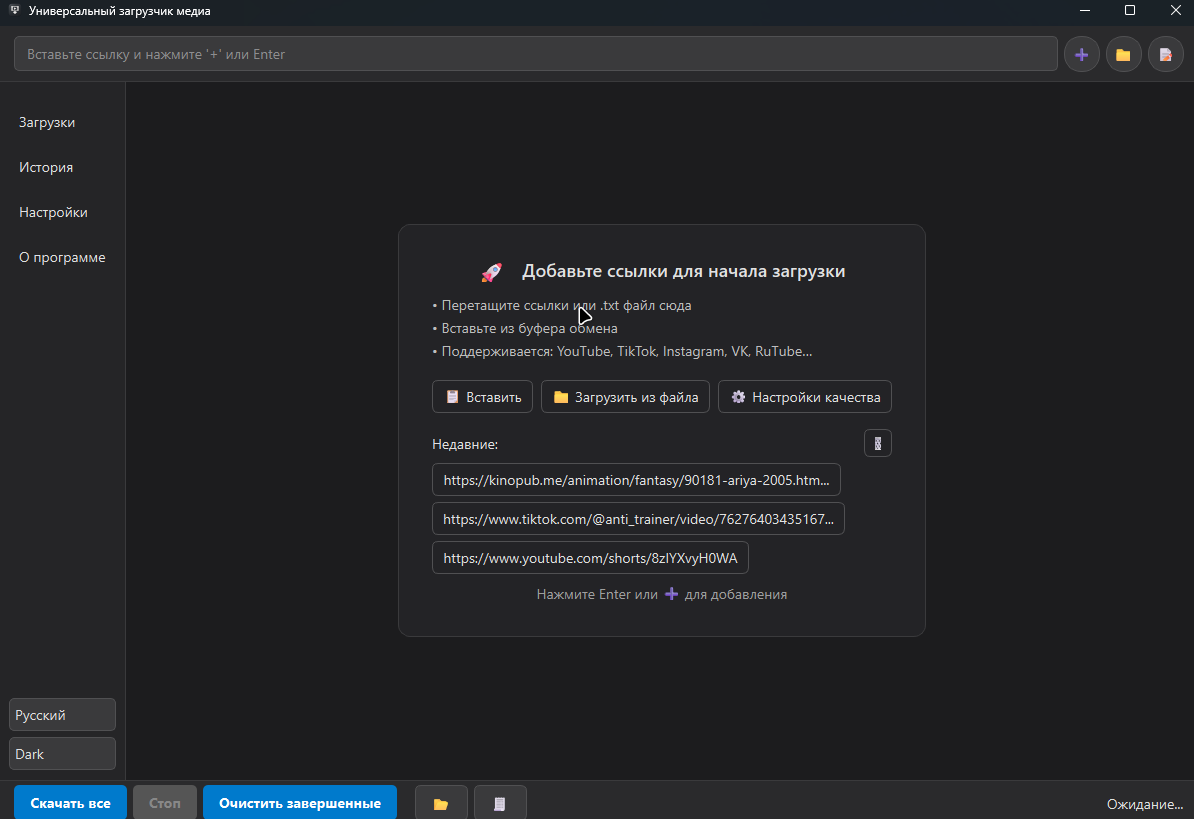
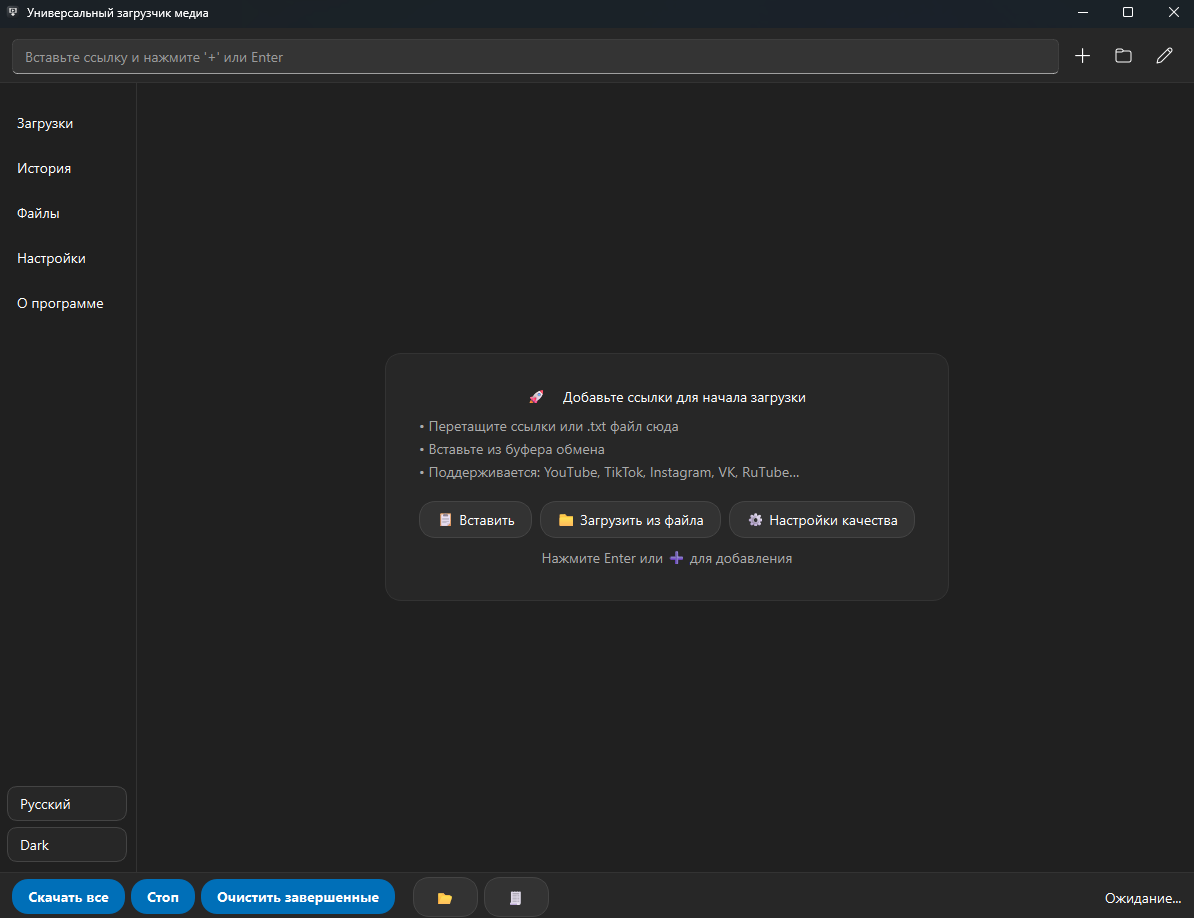
feat: Release v2.1 -Playlists

diff --git a/app/playlist_dialog.py b/app/playlist_dialog.py
@@ -1,0 +1,116 @@
+from PyQt6.QtWidgets import (QDialog, QVBoxLayout, QHBoxLayout,
+                             QListWidget, QListWidgetItem)
+from PyQt6.QtCore import Qt
+from qfluentwidgets import (SearchLineEdit, PushButton, PrimaryPushButton,
+                            SubtitleLabel, BodyLabel)
+
+
+class PlaylistDialog(QDialog):
+    def __init__(self, entries, parent=None):
+        super().__init__(parent)
+        self.setWindowTitle("Обнаружен плейлист / сезон")
+        self.resize(600, 550)  # Сделали окно чуть больше
+        self.entries = [e for e in entries if e]
+        self.selected_urls = []
+        self.initUI()
+
+    def initUI(self):
+        layout = QVBoxLayout(self)
+        layout.setContentsMargins(24, 24, 24, 24)
+        layout.setSpacing(15)
+
+        self.title_label = SubtitleLabel(f"Найдено видео: {len(self.entries)}")
+        layout.addWidget(self.title_label)
+
+        self.desc_label = BodyLabel("Выберите нужные для скачивания или воспользуйтесь поиском:")
+        self.desc_label.setStyleSheet("color: gray;")
+        layout.addWidget(self.desc_label)
+
+        self.search_input = SearchLineEdit()
+        self.search_input.setPlaceholderText("Поиск по названию видео...")
+        self.search_input.textChanged.connect(self.filter_list)
+        layout.addWidget(self.search_input)
+
+        self.list_widget = QListWidget()
+        self.list_widget.setStyleSheet("""
+            QListWidget {
+                background-color: rgba(255, 255, 255, 0.03);
+                border: 1px solid rgba(255, 255, 255, 0.1);
+                border-radius: 8px;
+                padding: 5px;
+                outline: none;
+            }
+            QListWidget::item {
+                padding: 10px;
+                border-radius: 6px;
+                border-bottom: 1px solid rgba(255, 255, 255, 0.05);
+            }
+            QListWidget::item:hover {
+                background-color: rgba(255, 255, 255, 0.08);
+            }
+        """)
+
+        for entry in self.entries:
+            title = entry.get('title', 'Без названия')
+            url = entry.get('url') or entry.get('webpage_url')
+
+            if not url and entry.get('id'):
+                url = f"https://www.youtube.com/watch?v={entry.get('id')}"
+
+            if url:
+                item = QListWidgetItem(title)
+                item.setFlags(item.flags() | Qt.ItemFlag.ItemIsUserCheckable)
+                item.setCheckState(Qt.CheckState.Checked)
+                item.setData(Qt.ItemDataRole.UserRole, url)
+                self.list_widget.addItem(item)
+
+        layout.addWidget(self.list_widget)
+
+        btn_layout = QHBoxLayout()
+        btn_layout.setSpacing(10)
+
+        self.btn_select_all = PushButton("Выбрать все")
+        self.btn_select_all.clicked.connect(self.select_all)
+
+        self.btn_deselect_all = PushButton("Снять все")
+        self.btn_deselect_all.clicked.connect(self.deselect_all)
+
+        self.btn_ok = PrimaryPushButton("Добавить в загрузки")
+        self.btn_ok.clicked.connect(self.accept_selection)
+
+        btn_layout.addWidget(self.btn_select_all)
+        btn_layout.addWidget(self.btn_deselect_all)
+        btn_layout.addStretch()
+        btn_layout.addWidget(self.btn_ok)
+
+        layout.addLayout(btn_layout)
+
+    def filter_list(self, text):
+        search_text = text.lower()
+        for i in range(self.list_widget.count()):
+            item = self.list_widget.item(i)
+            if search_text in item.text().lower():
+                item.setHidden(False)
+            else:
+                item.setHidden(True)
+
+
+    def select_all(self):
+        for i in range(self.list_widget.count()):
+            item = self.list_widget.item(i)
+            if not item.isHidden():
+                item.setCheckState(Qt.CheckState.Checked)
+
+    def deselect_all(self):
+        for i in range(self.list_widget.count()):
+            item = self.list_widget.item(i)
+            if not item.isHidden():
+                item.setCheckState(Qt.CheckState.Unchecked)
+
+    def accept_selection(self):
+        self.selected_urls = []
+        for i in range(self.list_widget.count()):
+            item = self.list_widget.item(i)
+            if item.checkState() == Qt.CheckState.Checked:
+                self.selected_urls.append(item.data(Qt.ItemDataRole.UserRole))
+        self.accept()

diff --git a/app/threads.py b/app/threads.py
@@ -121,7 +121,6 @@ class InfoWorker(QRunnable):
             logger.error(f"InfoWorker error for {self.url}: {e}")
             self.signals.error.emit(str(e))
 
-
 class ThumbnailWorker(QRunnable):
     def __init__(self, url, task):
         super().__init__()
@@ -130,6 +129,57 @@ class ThumbnailWorker(QRunnable):
         self.signals = WorkerSignals()
 
     def run(self):
+        try:
+            cached = thumbnail_cache.get(self.url)
+            if cached is not None:
+                self.signals.thumbnail_loaded.emit(cached)
+                return
+
+            session = get_http_session()
+            response = session.get(self.url, timeout=10)
+            response.raise_for_status()
+            image = QImage()
+            image.loadFromData(response.content)
+            if not image.isNull():
+                pixmap = QPixmap.fromImage(image)
+                thumbnail_cache.set(self.url, pixmap)
+                self.signals.thumbnail_loaded.emit(pixmap)
+        except Exception as e:
+            logger.debug(f"Failed to load thumbnail from {self.url}: {e}")
+
+
+class PlaylistCheckWorker(QRunnable):
+    def __init__(self, url):
+        super().__init__()
+        self.url = url
+        self.signals = WorkerSignals()
+
+    def run(self):
+        try:
+            ydl_opts = {
+                'quiet': True,
+                'extract_flat': True,
+                'skip_download': True,
+                'nocheckcertificate': True,
+                'ignoreerrors': True,
+            }
+            import yt_dlp
+            with yt_dlp.YoutubeDL(ydl_opts) as ydl:
+                info = ydl.extract_info(self.url, download=False)
+                if info:
+                    self.signals.info_fetched.emit(info)
+                else:
+                    self.signals.error.emit("Нет данных")
+        except Exception as e:
+            self.signals.error.emit(str(e))
+
+
+class DownloadWorker(QRunnable):
+    def __init__(self, task, settings, ffmpeg_path, translator):
+
+
+
+     def run(self):
         try:
             cached = thumbnail_cache.get(self.url)
             if cached is not None:

diff --git a/app/main_window.py b/app/main_window.py
@@ -415,12 +415,49 @@ class MainWindow(QMainWindow):
     def on_add_link(self):
         url = self.url_input.text().strip()
         if url:
-            self.download_manager.add_urls([url])
-            self._add_recent(url)
             self.url_input.clear()
-            self._rebuild_recent_buttons()
+            if 'list=' in url:
+                self.status_label.setText("Анализ плейлиста...")
+                from .threads import PlaylistCheckWorker
+                worker = PlaylistCheckWorker(url)
+                worker.signals.info_fetched.connect(lambda info: self._handle_link_info(info, url))
+                worker.signals.error.connect(lambda err: self._handle_link_error(err, url))
+                self.thread_pool.start(worker)
+
+            else:
+                self.status_label.setText(self.translator.translate('waiting'))
+                self.download_manager.add_urls([url])
+                self._add_recent(url)
+                self._rebuild_recent_buttons()
+
         else:
             QMessageBox.warning(self, self.translator.translate('warning'), self.translator.translate('enter_link'))
+
+    def _handle_link_info(self, info, original_url):
+        self.status_label.setText(self.translator.translate('waiting'))
+
+        if info.get('_type') == 'playlist' and 'entries' in info:
+            entries = list(info['entries'])
+            if len(entries) > 1:
+                from .playlist_dialog import PlaylistDialog
+                dialog = PlaylistDialog(entries, self)
+                if dialog.exec():
+                    urls_to_add = dialog.selected_urls
+                    if urls_to_add:
+                        self.download_manager.add_urls(urls_to_add)
+                        self._add_recent(original_url)
+                        self._rebuild_recent_buttons()
+                return
+
+        self.download_manager.add_urls([original_url])
+        self._add_recent(original_url)
+        self._rebuild_recent_buttons()
+
+    def _handle_link_error(self, err, original_url):
+        self.status_label.setText(self.translator.translate('waiting'))
+        self.download_manager.add_urls([original_url])
+        self._add_recent(original_url)
+        self._rebuild_recent_buttons()
 
     def on_paste_from_clipboard(self):
         text = QApplication.clipboard().text()

diff --git a/app/about_tab.py b/app/about_tab.py
@@ -102,13 +102,13 @@ class AboutTab(QWidget):
             lang = self.parent_window.settings.value('language', 'ru')
 
         if lang == 'en':
-            self.lbl_version.setText("Version: 2.0")
+            self.lbl_version.setText("Version: 2.1")
             self.lbl_author.setText("Author: Magerko\nModified by: MrPablo")
         elif lang == 'uk':
-            self.lbl_version.setText("Версія: 2.0")
+            self.lbl_version.setText("Версія: 2.1")
             self.lbl_author.setText("Автор: Magerko\nДоповнено: MrPablo")
         else:
-            self.lbl_version.setText("Версия: 2.0")
+            self.lbl_version.setText("Версия: 2.1")
             self.lbl_author.setText("Автор: Magerko\nДополнено: MrPablo")
 
     def on_telegram_clicked(self):

diff --git a/README.md b/README.md
@@ -1,4 +1,4 @@
-# Universal Media Downloader v1.6
+# Universal Media Downloader v2.1
 
 <p align="center">
   <img src="assets/icon.png" alt="Logo" width="128" height="128">
@@ -9,7 +9,7 @@
 </p>
 
 <p align="center">
-  <a href="#что-нового-в-версии-16">Что нового</a> •
+  <a href="#что-нового-в-версии-21">Что нового</a> •
   <a href="#возможности">Возможности</a> •
   <a href="#требования">Требования</a> •
   <a href="#установка">Установка</a> •
@@ -19,11 +19,9 @@
 
 ---
 
-## ✨ Что нового в версии 1.6 (Дополнено: MrPablo)
+## ✨ Что нового в версии 2.1 (плейлисты и Масштабное обновление)
 
-- 📝 **Примечания:** Добавлена кнопка заметок со встроенным 5-секундным таймером и важным предупреждением для корректного скачивания с KinoPub (появляется при первом запуске).
-- 💾 **Отображение размера файла:** Теперь в карточке загрузки "на лету" отображается точный размер скачиваемого видео (в MB или GB).
-- ▶️ **Быстрый запуск:** В контекстное меню (по правому клику на завершенной загрузке) добавлена кнопка **«Открыть видео»**, которая моментально запускает скачанный файл в вашем плеере по умолчанию.
+- 📋 **Работа с плейлистами:** Добавлено красивое всплывающее окно для выбора конкретных видео из плейлиста. Больше не нужно скачивать весь сезон целиком — просто отметьте нужные серии галочками (встроен удобный поиск по названиям (youtube))!
 
 ---
 
@@ -35,11 +33,11 @@
 - **Параллельные загрузки**: настраиваемое количество одновременных загрузок
 - **История загрузок**: отслеживание всех скачанных файлов
 - **Субтитры**: загрузка субтитров (EN, RU, UK)
-- **Cookies**: авторизация через файл или браузер
+- **Cookies**: авторизация через файл или браузер (Chrome, Opera, Edge, Firefox и др.)
 - **Drag & Drop**: перетаскивание ссылок и .txt файлов
-- **Темы**: тёмная и светлая
+- **Темы**: полная поддержка тёмной и светлой темы
 - **Локализация**: русский, английский, украинский
-- **Автообновление**: проверка обновлений yt-dlp при запуске
+- **Автообновление**: фоновая проверка обновлений ядра yt-dlp при запуске
 
 ## Требования
 
@@ -51,7 +49,6 @@
 **Windows (PowerShell):**
 ```powershell
 irm [https://deno.land/install.ps1](https://deno.land/install.ps1) | iex
-```
 
 ### FFmpeg
 
@@ -116,6 +113,8 @@ python main.py
 Downloader/
 ├── app/                    # Основной код приложения
 │   ├── main_window.py      # Главное окно
+│   ├── files_tab.py        # Встроенный файловый менеджер
+│   ├── playlist_dialog.py  # Окно выбора видео из плейлиста
 │   ├── download_manager.py # Менеджер загрузок
 │   ├── download_task.py    # Модель задачи
 │   ├── threads.py          # Воркеры (загрузка, превью)
@@ -142,6 +141,7 @@ Downloader/
 - **PyQt6** - GUI фреймворк
 - **yt-dlp[curl-cffi]** - движок загрузки
 - **requests** - HTTP клиент
+- **yt-dlp[curl-cffi]** - движок загрузки
 - **packaging** - работа с версиями
 
 ## Известные проблемы
@@ -158,7 +158,7 @@ Downloader/
 
 **Оригинальный автор:** Magerko  https://github.com/Magerko/universal-media-downloader
 
-**Дополнено (версия 1.6):** MrPablo  
+**Дополнено (версия 2.1):** MrPablo  
 
 ## Лицензия
 